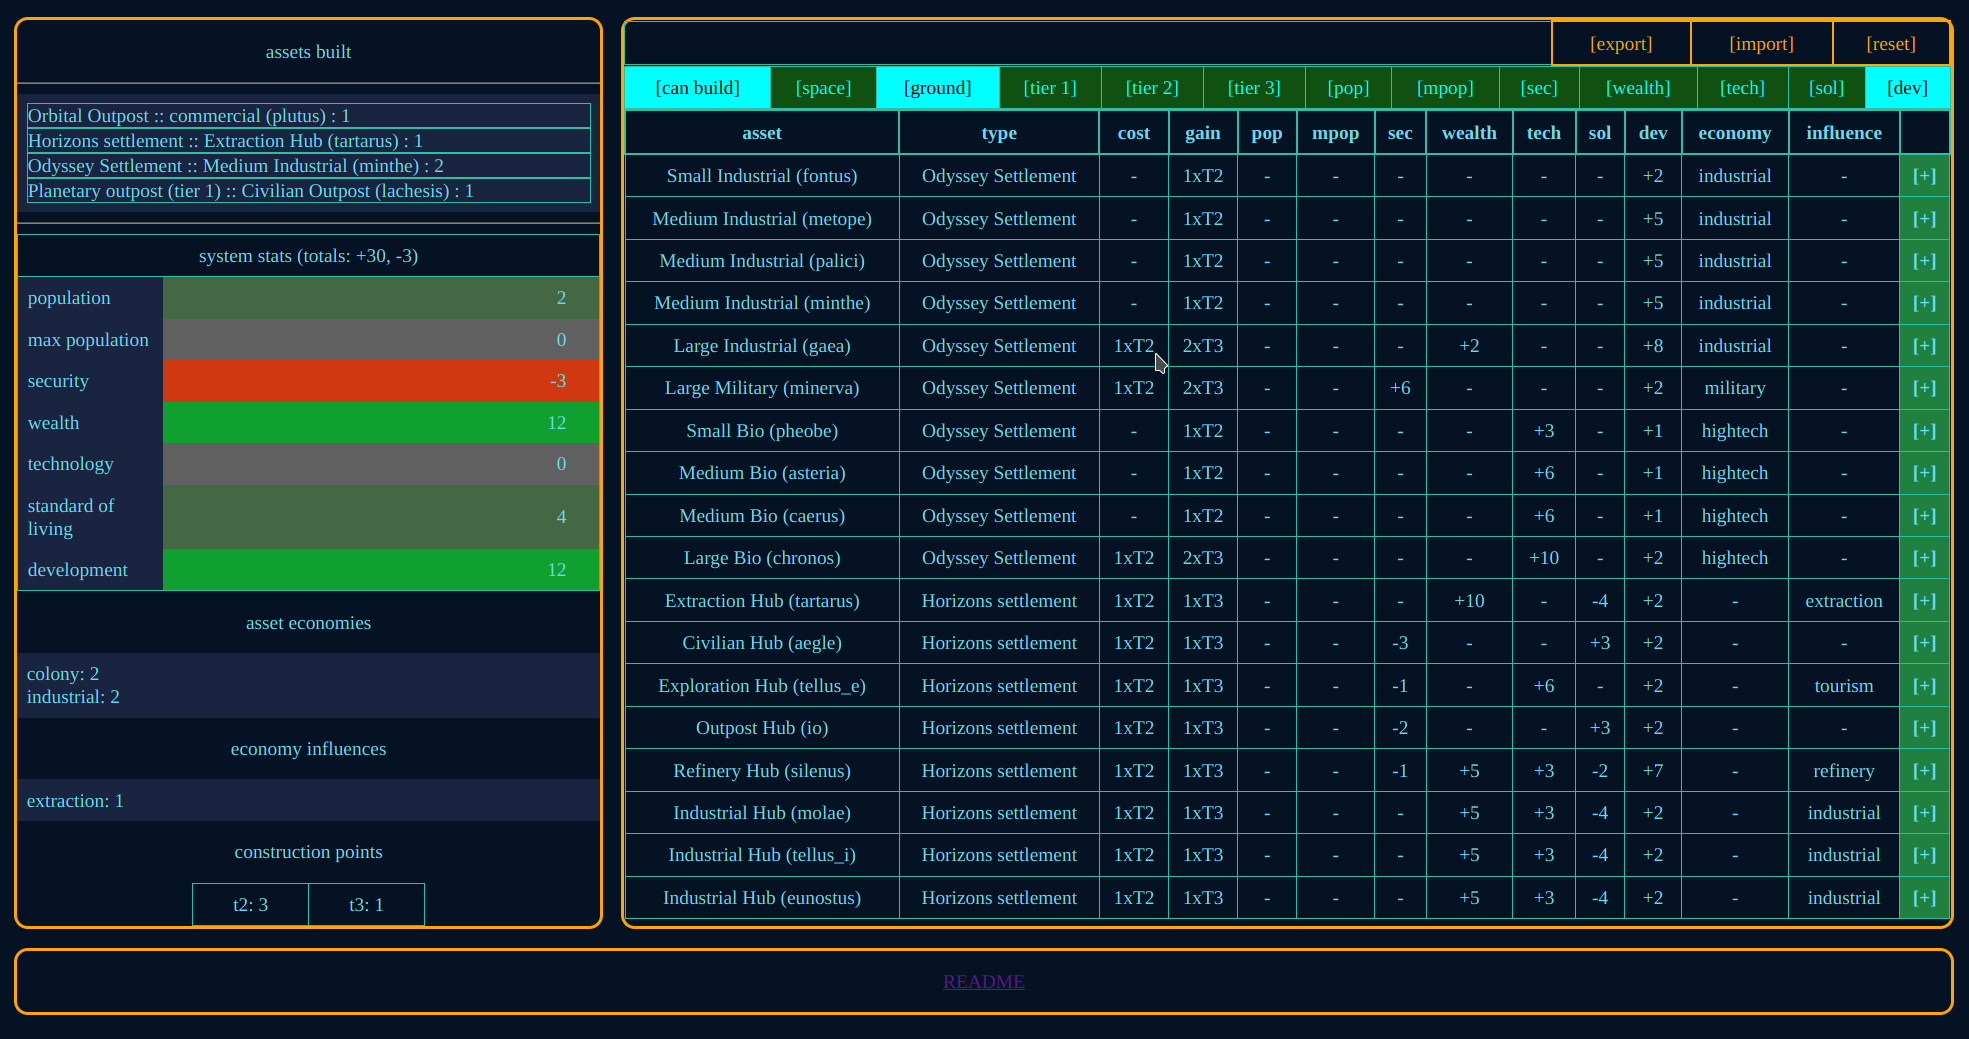
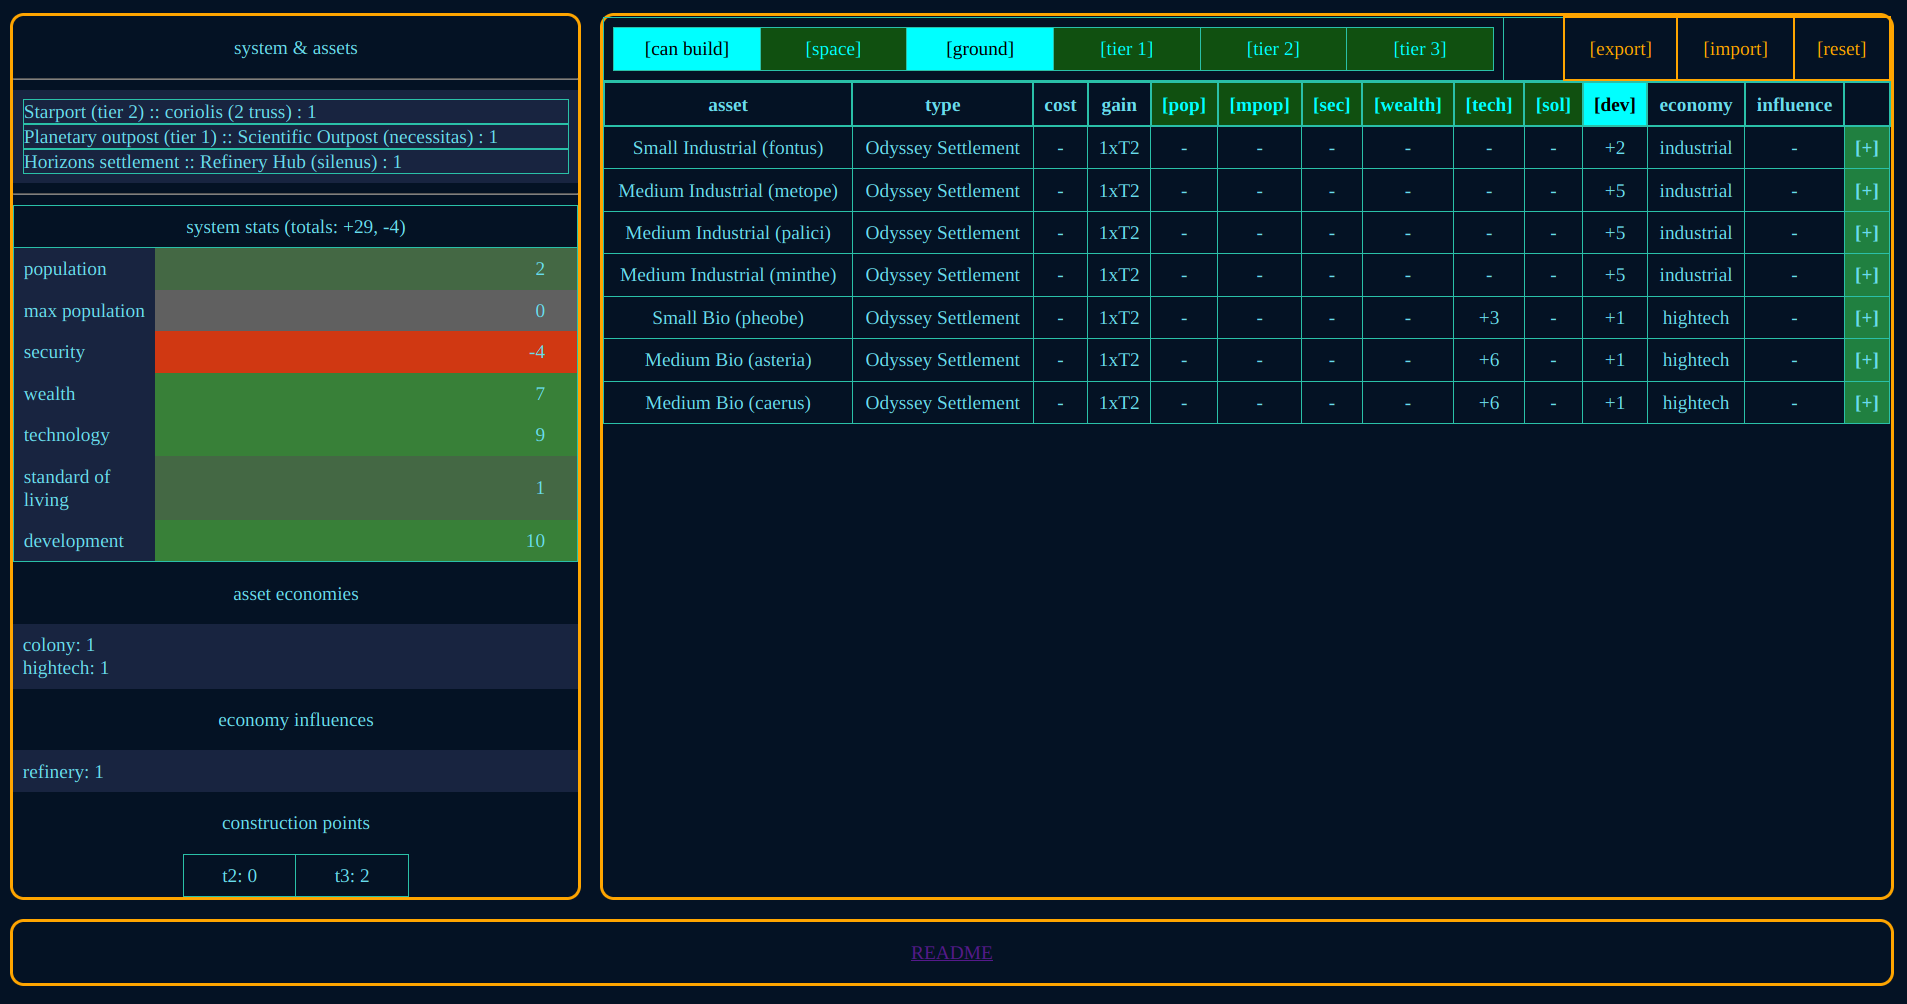
more tinkering

Changed region(s): [[0.0, 0.0, 1.0, 0.988], [0.1238, 0.8028, 0.1856, 0.8337]]

diff --git a/index.html b/index.html
@@ -132,7 +132,7 @@ table {
 <body>
 <div class="container">
   <div class="sidebar">
-    <p>assets built</p><hr />
+    <p>system & assets</p><hr />
     <div id="assetsContainer" class="stats"></div>
     <hr />
     <div id="statusContainer" class="stats"></div>
@@ -142,7 +142,7 @@ table {
     <div id="pointsContainer" class="points"></div>
   </div>
   <div class="main">
-    <table width="100%"><tr><td width="70%"></td><td id="export">[export]</td><td id="import">[import]</td><td id="reset">[reset]</td></tr></table>
+    <table width="100%"><tr><td id="filtersContainer" width="70%"></td><td id="blank">&nbsp;&nbsp;&nbsp;&nbsp;&nbsp;</td><td id="export">[export]</td><td id="import">[import]</td><td id="reset">[reset]</td></tr></table>
     <div id="filtersContainer"></div>
     <div id="tableContainer"></div>
   </div>
@@ -645,13 +645,15 @@ const assets = {
    }
 };
 
+var constructionFilters = [ 'can build', 'space', 'ground', 'tier 1', 'tier 2', 'tier 3'];
+
 var assetFilters = {
-    "can build": false,
+    'can build': false,
     space: false,
     ground: false,
-    "tier 1": false,
-    "tier 2": false,
-    "tier 3": false,
+    'tier 1': false,
+    'tier 2': false,
+    'tier 3': false,
     pop: false,
     mpop: false,
     sec: false,
@@ -660,6 +662,11 @@ var assetFilters = {
     sol: false,
     dev: false
 };
+
+const filterGroups = [
+    ['space', 'ground'],
+    ['tier 1', 'tier 2', 'tier 3']
+];
 
 var assetEconomies = {};
 var economyInfluences = {};
@@ -723,11 +730,6 @@ const groundTypes = [
     'Planetary port (tier 3)',
     'Odyssey Settlement',
     'Horizons settlement'
-];
-
-const filterGroups = [
-    ['space', 'ground'],
-    ['tier 1', 'tier 2', 'tier 3']
 ];
 
 function numSystemAssets() {
@@ -821,7 +823,12 @@ function effectCell(asset, str) {
 function assetHeaders() {
     var r = document.createElement('tr');
     headers.forEach( function (str)  {
-        r.appendChild(textElement('th', str));
+        
+        if (str in systemStatus) {
+            r.appendChild(filterElement('th', str));
+        } else {
+            r.appendChild(textElement('th', str));
+        }
     });
     return r;
 }
@@ -1037,14 +1044,33 @@ function showEconomy() {
     c.appendChild(sp);
 }
 
+function buildWarning() {
+    const p = document.createElement('p');
+    p.innerHTML = '***WARNING***</div> '
+                + 'the game <a href="https://forums.frontier.co.uk/threads/how-not-to-build-a-security-station-in-trailblazer.634795/">'
+                + 'builds the wrong type for some installations</a> '
+                + 'and lies about landing pads! <br/>';
+    p.style.color = '#ff4444';
+    return p;
+}
+
+function spreadsheetLink() {
+    const p = document.createElement('p');
+                + 'Check <a href="https://docs.google.com/spreadsheets/d/16_hh1G6Tb66OdS01Li0955lITp7yLleb3a8dmqVqq2o/">'
+                + "DaftMav's colonisation spreadheet</a> "
+                + 'before committing to building an asset!';
+    return p;
+}
+
 function intro() {
-    var s = document.createElement('span');
+    const s = document.createElement('span');
     s.appendChild(textElement('p', 'Click a green "[+]" on the right to add an asset.'));
     s.appendChild(textElement('p', 'Click filters like "[tier 3]" to show matching assets.'));
     s.appendChild(textElement('p', 'Buildable filter is pre-enabled, click to disable.'));
     s.appendChild(textElement('p', 'Adding assets may require construction points (tier 2 or tier 3). No points are required for the first station.'));
-    s.appendChild(textElement('p', 'Hit F5 to start again.'));
     s.appendChild(textElement('p', 'When you add an asset, this text will disappear and assets will appear here.'));
+    s.appendChild(buildWarning());
+    s.appendChild(spreadsheetLink());
     s.appendChild(textElement('p', 'This is a WIP.'));
     return s;
 }
@@ -1095,9 +1121,9 @@ function toggleFilter(filter) {
     refresh();
 };
 
-function filterCell(filter) {
+function filterElement(elt, filter) {
 
-    var f = textElement('td', '[' + filter + ']');
+    var f = textElement(elt, '[' + filter + ']');
 
     if (assetFilters[filter]) {
         f.style.backgroundColor = 'aqua';
@@ -1112,15 +1138,16 @@ function filterCell(filter) {
 
 function showFilters() {
 
-    var filtersContainer = document.getElementById("filtersContainer");
-    var t = document.createElement('table');
-    var r = document.createElement('tr');
+    const filtersContainer = document.getElementById("filtersContainer");
+    const t = document.createElement('table');
+    const r = document.createElement('tr');
 
-    for (var filter in assetFilters) {
-        var f = filterCell(filter);
+    for (var filter in constructionFilters) {
+        const f = filterElement('td', constructionFilters[filter]);
         r.appendChild(f);
     }
     t.appendChild(r);
+    t.style.tableLayout = 'fixed';
     filtersContainer.appendChild(t);
 }
 

diff --git a/README.md b/README.md
@@ -2,7 +2,7 @@
 
 ![screenshot](https://github.com/cmdr-nowski/syscol_helper/blob/main/syscol.png?raw=true)
 
-Crude tool to experiment with system colonisation builds for Elite Dangerous
+Crude tool to experiment with system colony builds for Elite Dangerous
 
 - models the dependencies and construction points requirements
 - keeps track of system status effects, basic economy facts
@@ -13,6 +13,6 @@ Crude tool to experiment with system colonisation builds for Elite Dangerous
 - basic javascript only, no dependencies, run it at home
 - 90's html skills on show
 - UI/UX - I've heard of them
-- WIP, no warranty, hours and days spent hauling commodities are the responsibility of the user/cmdr.
+- WIP, no warranty, hours and days spent hauling commodities are the sole responsibility of the hauler.
 - patches welcome!
 
